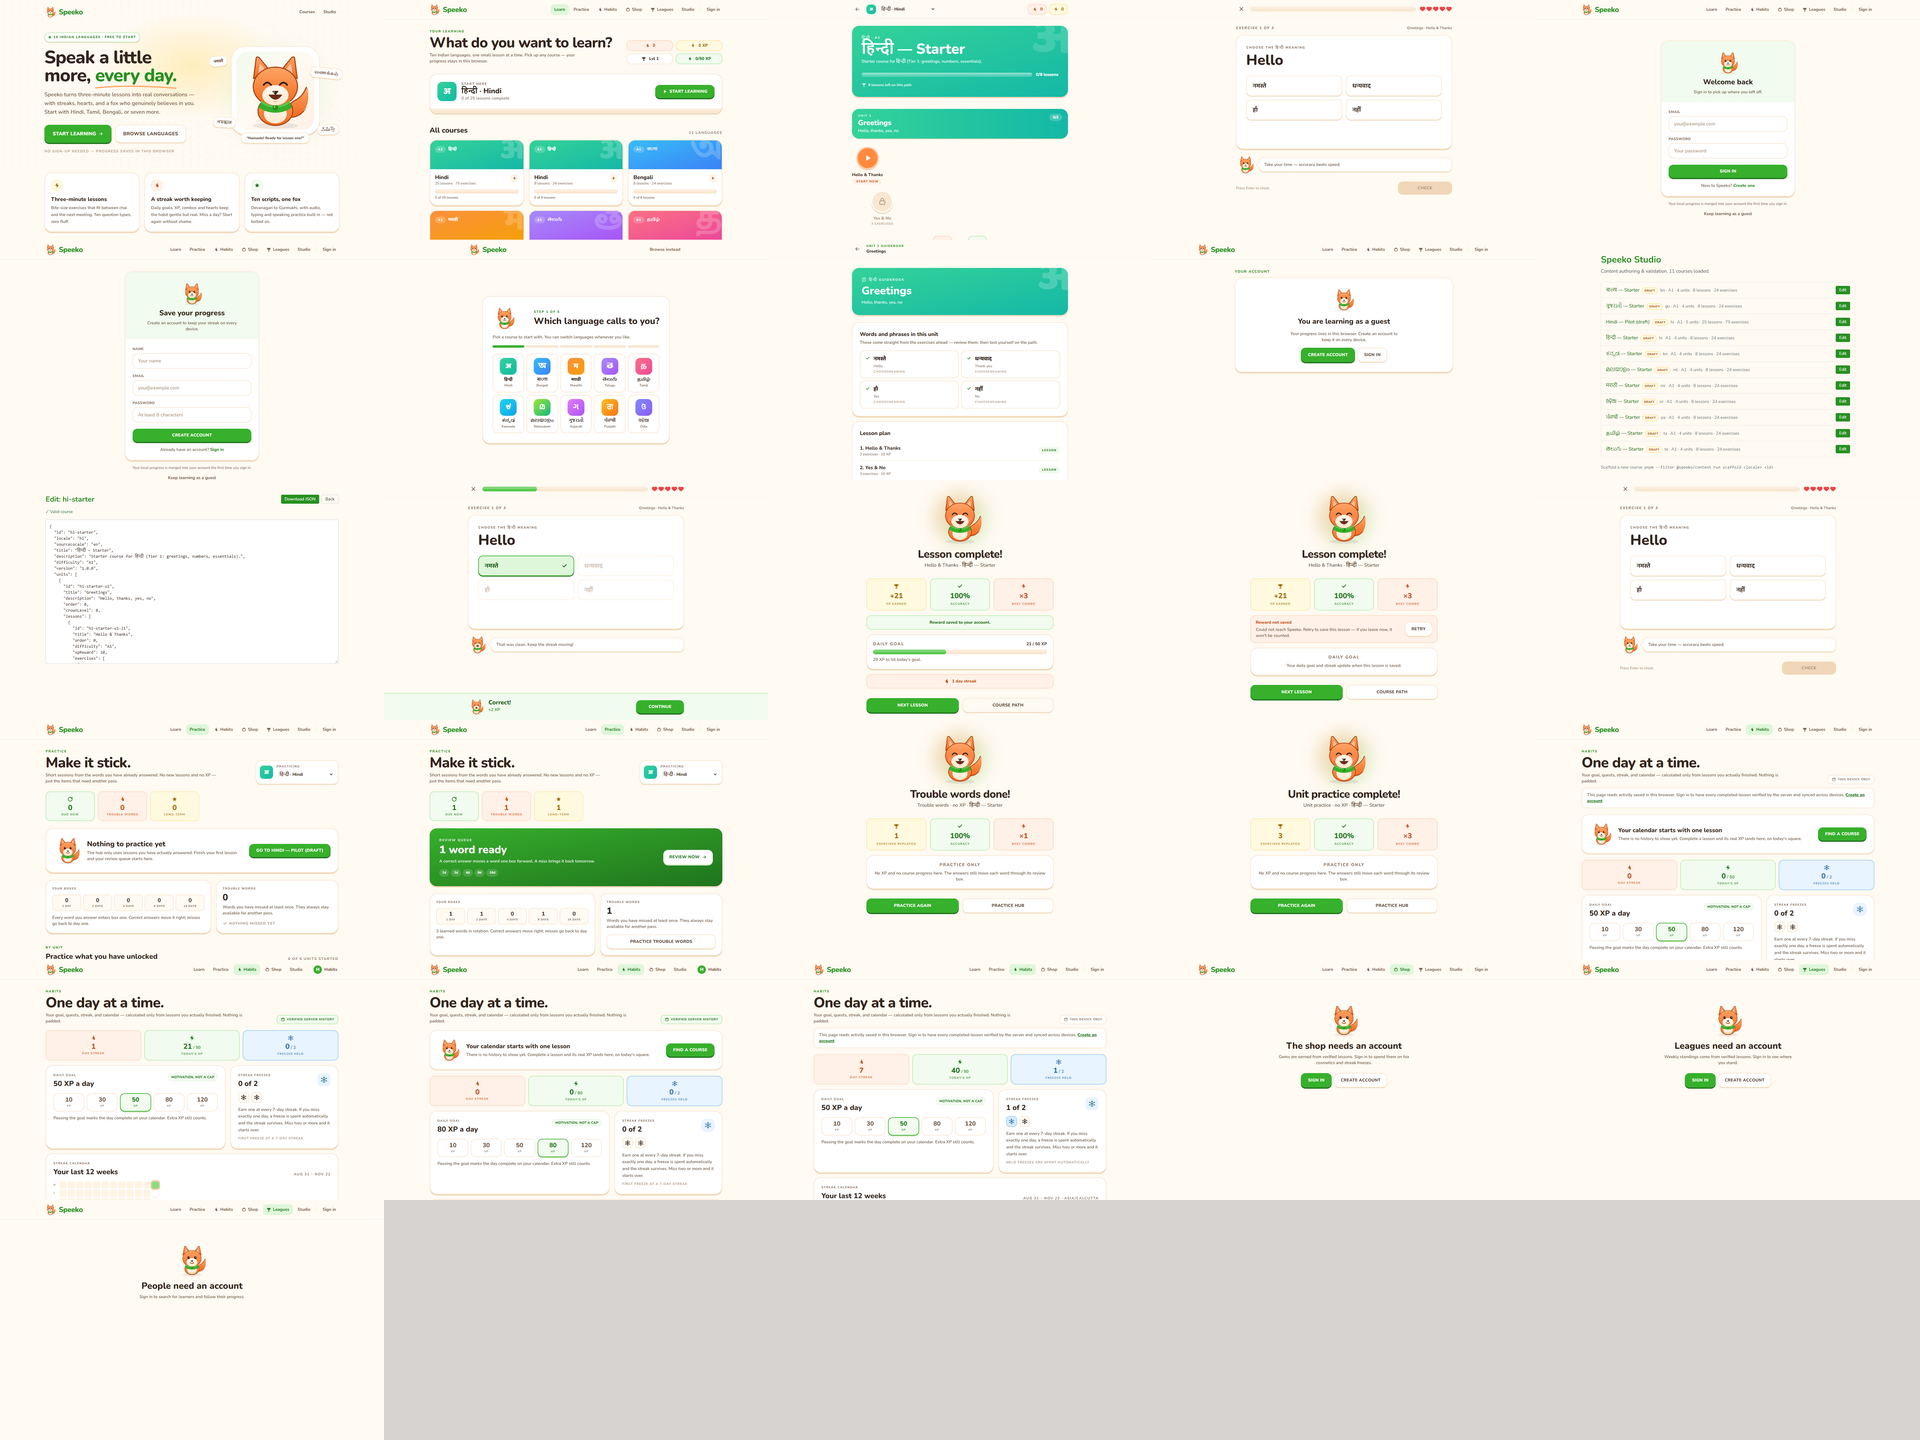
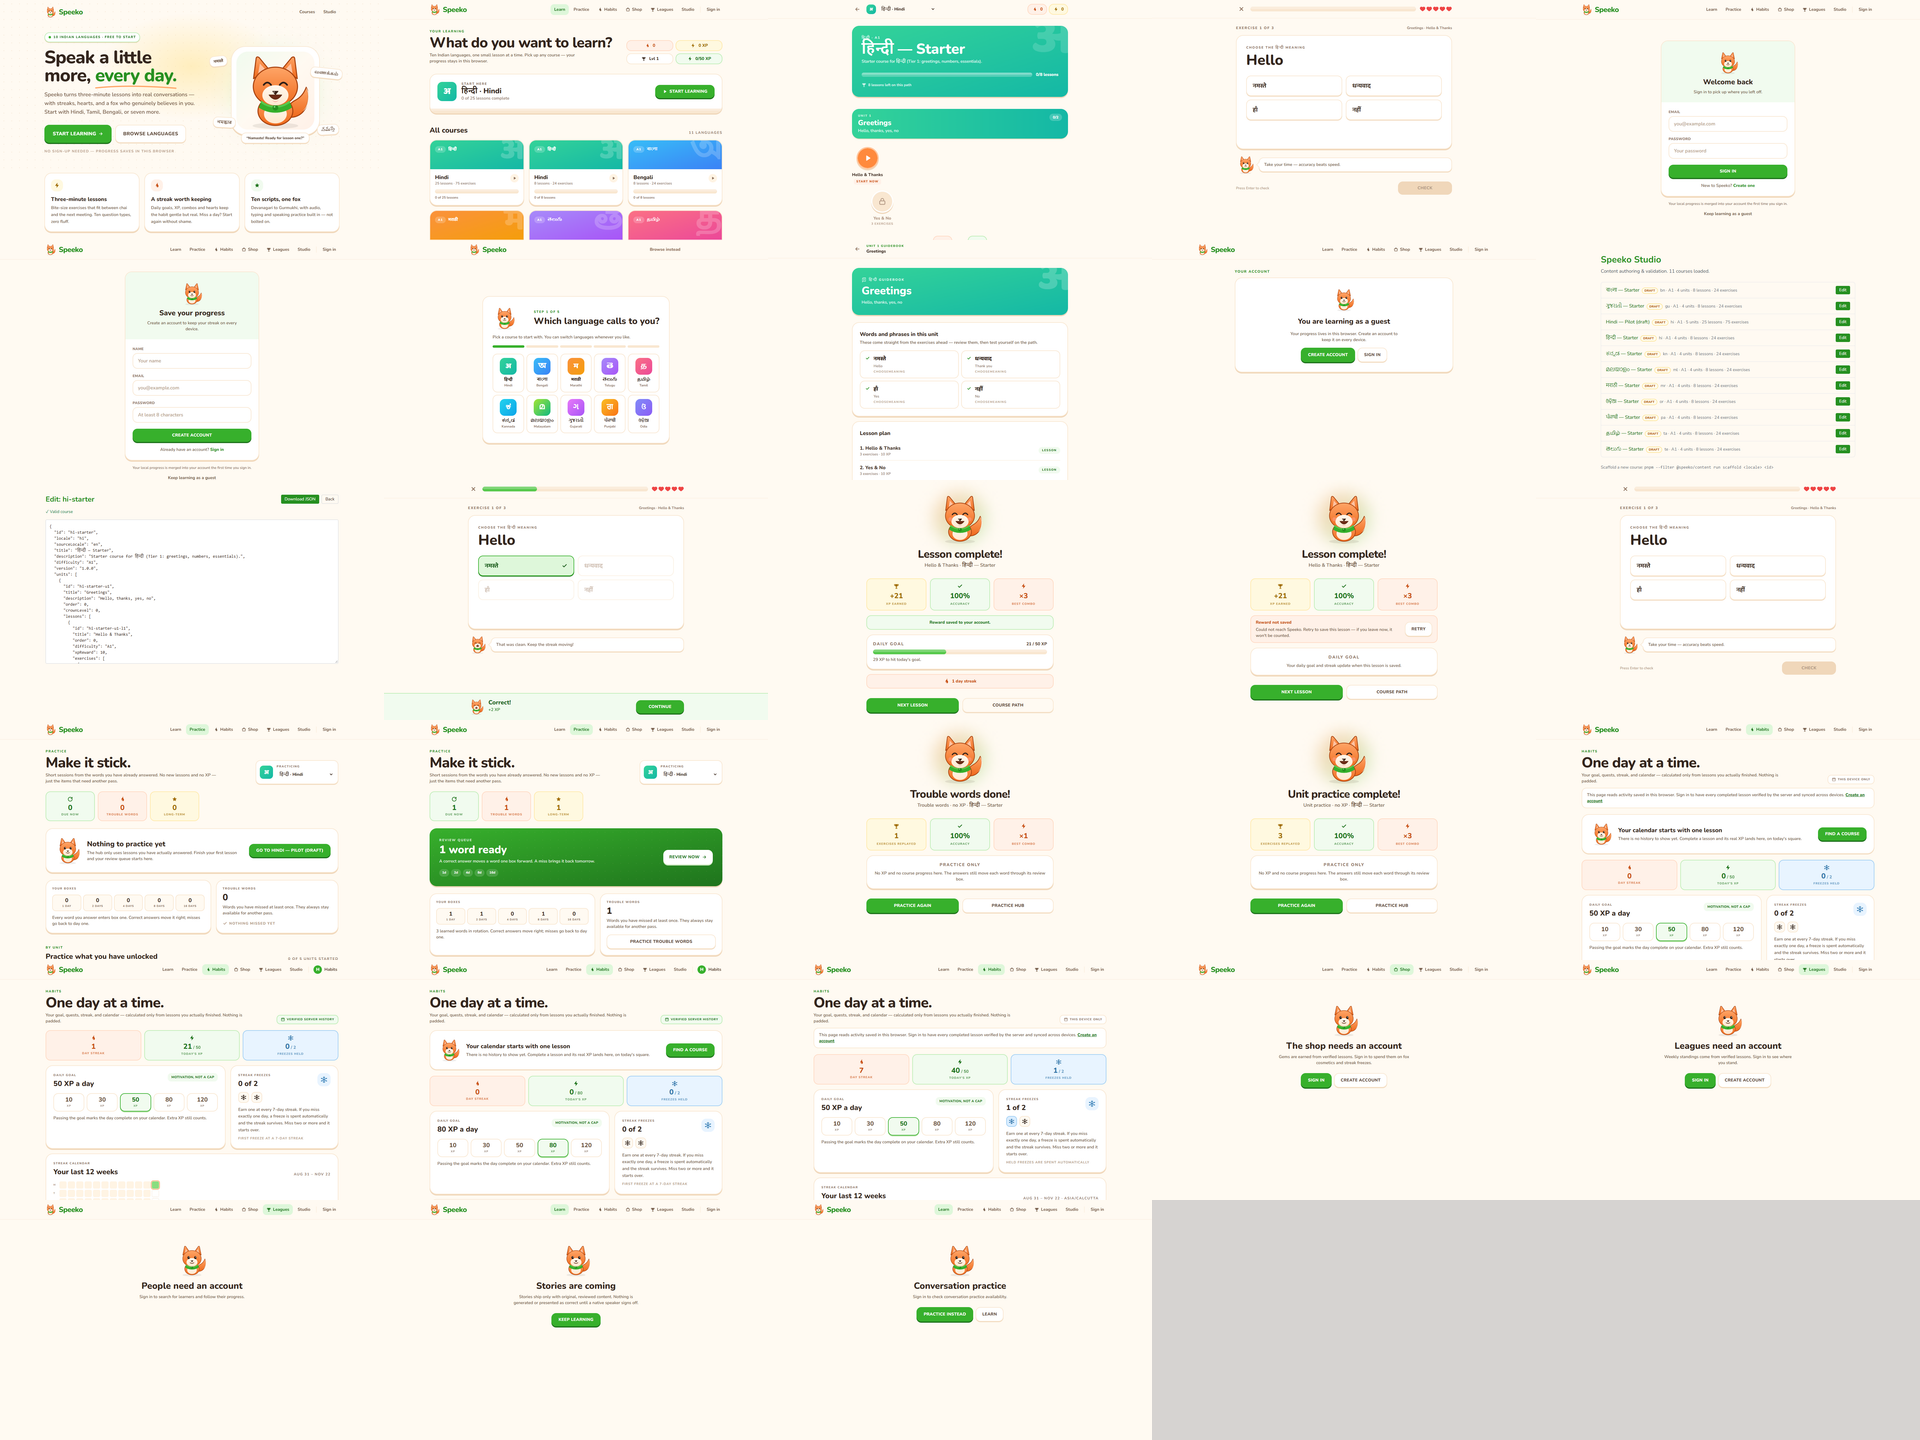
feat: phase 10 stories and conversation practice

diff --git a/apps/web/app/conversation/page.tsx b/apps/web/app/conversation/page.tsx
@@ -1,0 +1,49 @@
+'use client';
+
+import { useEffect, useState } from 'react';
+import Link from 'next/link';
+import { SiteHeader } from '@/components/AppHeader';
+import { Fox } from '@/components/Fox';
+import { authClient } from '@/lib/auth-client';
+
+export default function ConversationPage() {
+  const { data: session } = authClient.useSession();
+  const [available, setAvailable] = useState<boolean | null>(null);
+
+  useEffect(() => {
+    if (!session?.user.id) return;
+    fetch('/api/ai/status', { credentials: 'include' })
+      .then((response) => (response.ok ? response.json() : null))
+      .then((body) => setAvailable(Boolean(body?.available)))
+      .catch(() => setAvailable(false));
+  }, [session?.user.id]);
+
+  return (
+    <div className="min-h-screen">
+      <SiteHeader active="learn" />
+      <main className="mx-auto flex max-w-2xl flex-col items-center px-5 py-20 text-center">
+        <Fox className="h-28 w-28" />
+        <h1 className="mt-3 font-display text-3xl font-extrabold text-bark-800">
+          Conversation practice
+        </h1>
+        <p className="mt-2 max-w-md text-sm font-semibold text-bark-500">
+          {session
+            ? available === false
+              ? 'Conversation practice is unavailable until an AI provider is configured on the server. No pretend conversations are shown.'
+              : available === true
+                ? 'A provider is configured, but the practice flow is not implemented yet.'
+                : 'Checking availability…'
+            : 'Sign in to check conversation practice availability.'}
+        </p>
+        <div className="mt-6 flex flex-wrap justify-center gap-2">
+          <Link href="/practice" className="btn-primary">
+            Practice instead
+          </Link>
+          <Link href="/learn" className="btn-secondary">
+            Learn
+          </Link>
+        </div>
+      </main>
+    </div>
+  );
+}

diff --git a/apps/api/src/routes/ai.ts b/apps/api/src/routes/ai.ts
@@ -1,0 +1,30 @@
+import type { FastifyInstance } from 'fastify';
+import { sessionFromHeaders } from './auth.js';
+
+function aiAvailable(): boolean {
+  return Boolean(process.env.AI_API_KEY && process.env.AI_API_URL);
+}
+
+export async function aiRoutes(app: FastifyInstance) {
+  app.get('/api/ai/status', async (request, reply) => {
+    const session = await sessionFromHeaders(request.headers);
+    if (!session?.user.id) return reply.status(401).send({ error: 'Unauthorized' });
+    return reply.send({ available: aiAvailable() });
+  });
+
+  app.post('/api/ai/conversation', async (request, reply) => {
+    const session = await sessionFromHeaders(request.headers);
+    if (!session?.user.id) return reply.status(401).send({ error: 'Unauthorized' });
+    if (!aiAvailable()) {
+      return reply.status(503).send({
+        error: 'Conversation practice is unavailable until an AI provider is configured.',
+        available: false,
+      });
+    }
+    // No provider is configured in this build; keep the honest unavailable state.
+    return reply.status(503).send({
+      error: 'Conversation practice is unavailable.',
+      available: false,
+    });
+  });
+}

diff --git a/apps/web/app/stories/page.tsx b/apps/web/app/stories/page.tsx
@@ -1,0 +1,24 @@
+'use client';
+
+import Link from 'next/link';
+import { SiteHeader } from '@/components/AppHeader';
+import { Fox } from '@/components/Fox';
+
+export default function StoriesPage() {
+  return (
+    <div className="min-h-screen">
+      <SiteHeader active="learn" />
+      <main className="mx-auto flex max-w-2xl flex-col items-center px-5 py-20 text-center">
+        <Fox className="h-28 w-28" />
+        <h1 className="mt-3 font-display text-3xl font-extrabold text-bark-800">Stories are coming</h1>
+        <p className="mt-2 max-w-md text-sm font-semibold text-bark-500">
+          Stories ship only with original, reviewed content. Nothing is generated or presented as
+          correct until a native speaker signs off.
+        </p>
+        <Link href="/learn" className="btn-primary mt-6">
+          Keep learning
+        </Link>
+      </main>
+    </div>
+  );
+}

diff --git a/apps/api/src/index.ts b/apps/api/src/index.ts
@@ -9,6 +9,7 @@ import { habitRoutes } from './routes/habits.js';
 import { shopRoutes } from './routes/shop.js';
 import { socialRoutes } from './routes/social.js';
 import { courseRoutes } from './routes/courses.js';
+import { aiRoutes } from './routes/ai.js';
 import { closeDb, runMigrations } from './db/client.js';
 
 const app = Fastify({ logger: true });
@@ -34,6 +35,7 @@ async function main() {
   await app.register(shopRoutes);
   await app.register(socialRoutes);
   await app.register(courseRoutes);
+  await app.register(aiRoutes);
   app.addHook('onClose', async () => {
     await closeDb();
   });

diff --git a/tests/e2e/routes.spec.ts b/tests/e2e/routes.spec.ts
@@ -47,6 +47,16 @@ const ROUTES: RouteCase[] = [
     ready: (page) => page.getByRole('heading', { name: 'People need an account' }),
   },
   {
+    name: 'stories',
+    path: '/stories',
+    ready: (page) => page.getByRole('heading', { name: 'Stories are coming' }),
+  },
+  {
+    name: 'conversation',
+    path: '/conversation',
+    ready: (page) => page.getByRole('heading', { name: 'Conversation practice' }),
+  },
+  {
     name: 'habits',
     path: '/habits',
     ready: (page) => page.getByRole('heading', { name: 'One day at a time.' }),

diff --git a/docs/DECISIONS.md b/docs/DECISIONS.md
@@ -85,3 +85,10 @@ phase report or `PROGRESS.md`, not here.
 | --- | --- | --- |
 | D40 | **Mobile uses the shared API for course data.** | `/api/courses` and `/api/courses/:id` serve the compiled course bundle so mobile does not duplicate the content pipeline. |
 | D41 | **Mobile parity is incremental.** | This phase ports auth, learn, path, a basic lesson runner, account, and habits. Practice, shop, leagues, and people remain web-first until a later pass. |
+
+## P10 — Stories and conversation
+
+| ID | Decision | Rationale / impact |
+| --- | --- | --- |
+| D42 | **Stories and conversation practice are optional.** | They ship only with original reviewed content. No Indic content is mass-generated. |
+| D43 | **AI providers are server-side only and optional.** | `/api/ai/status` and `/api/ai/conversation` return an honest unavailable state unless configured. No client ever calls a provider directly. |

diff --git a/docs/PROGRESS.md b/docs/PROGRESS.md
@@ -21,6 +21,7 @@ durable choices live in [`DECISIONS.md`](./DECISIONS.md).
 | P7 - Gems + shop | Gem ledger, shop, original fox cosmetics, inventory | **Done** - `phase/7-gems-shop` |
 | P8 - Leagues + social | Weekly standings, promotion/demotion zones, early-community state, profiles, follow by username | **Done** - `phase/8-leagues-social` |
 | P9 - Mobile parity | Account + sync, path, lesson, practice, quests, motion layer | **Done** - `phase/9-mobile-parity` |
+| P10 - Stories + conversation | Honest unavailable/coming-soon states, optional AI endpoint | **Done** - `phase/10-stories-conversation` |
 
 ## Verification snapshot (P5)
 
